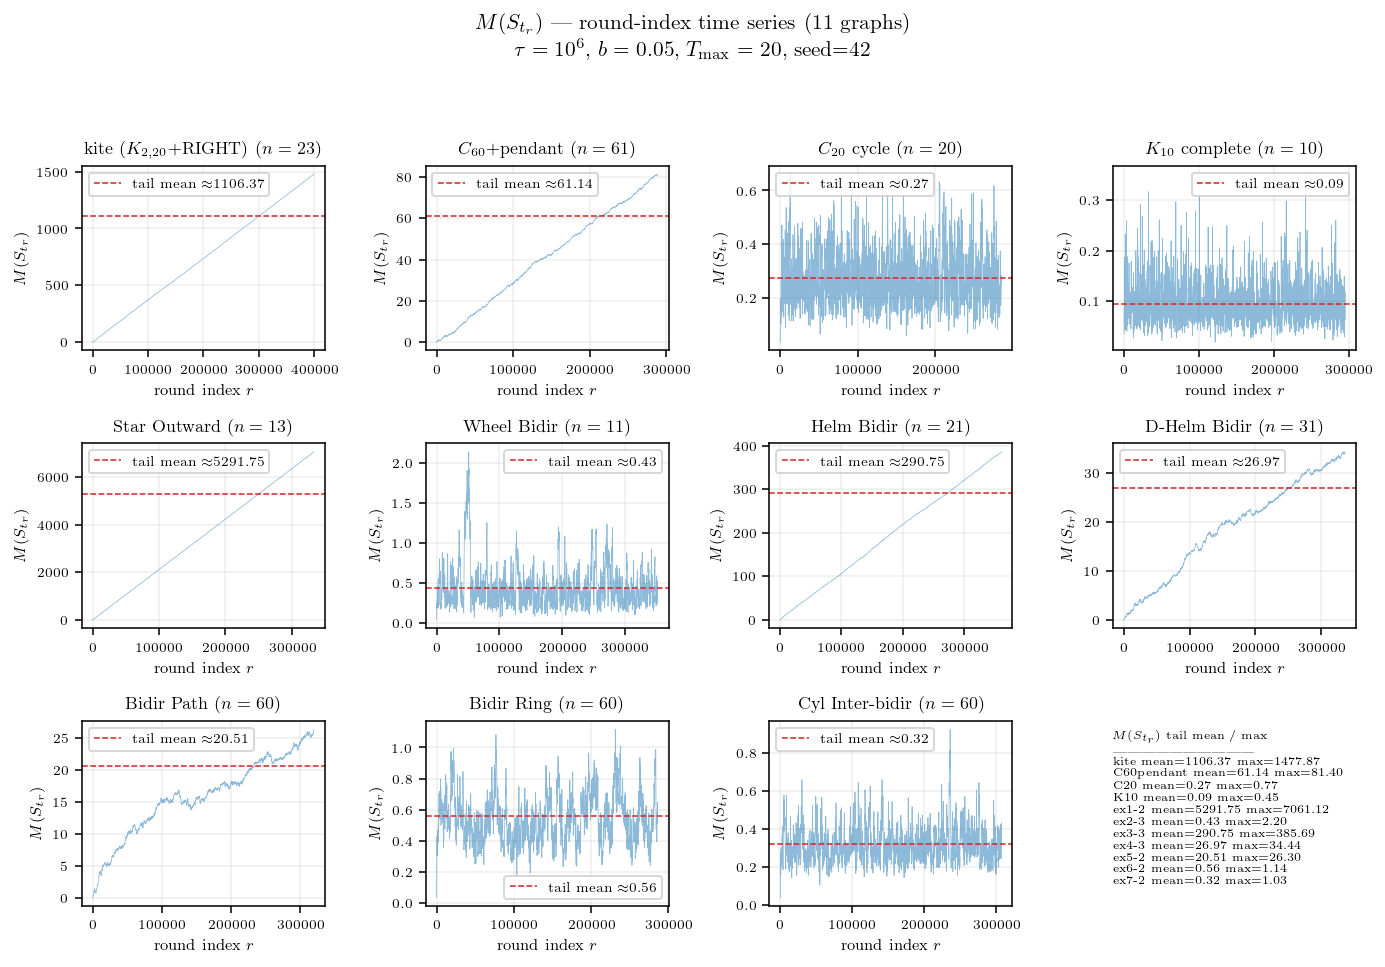
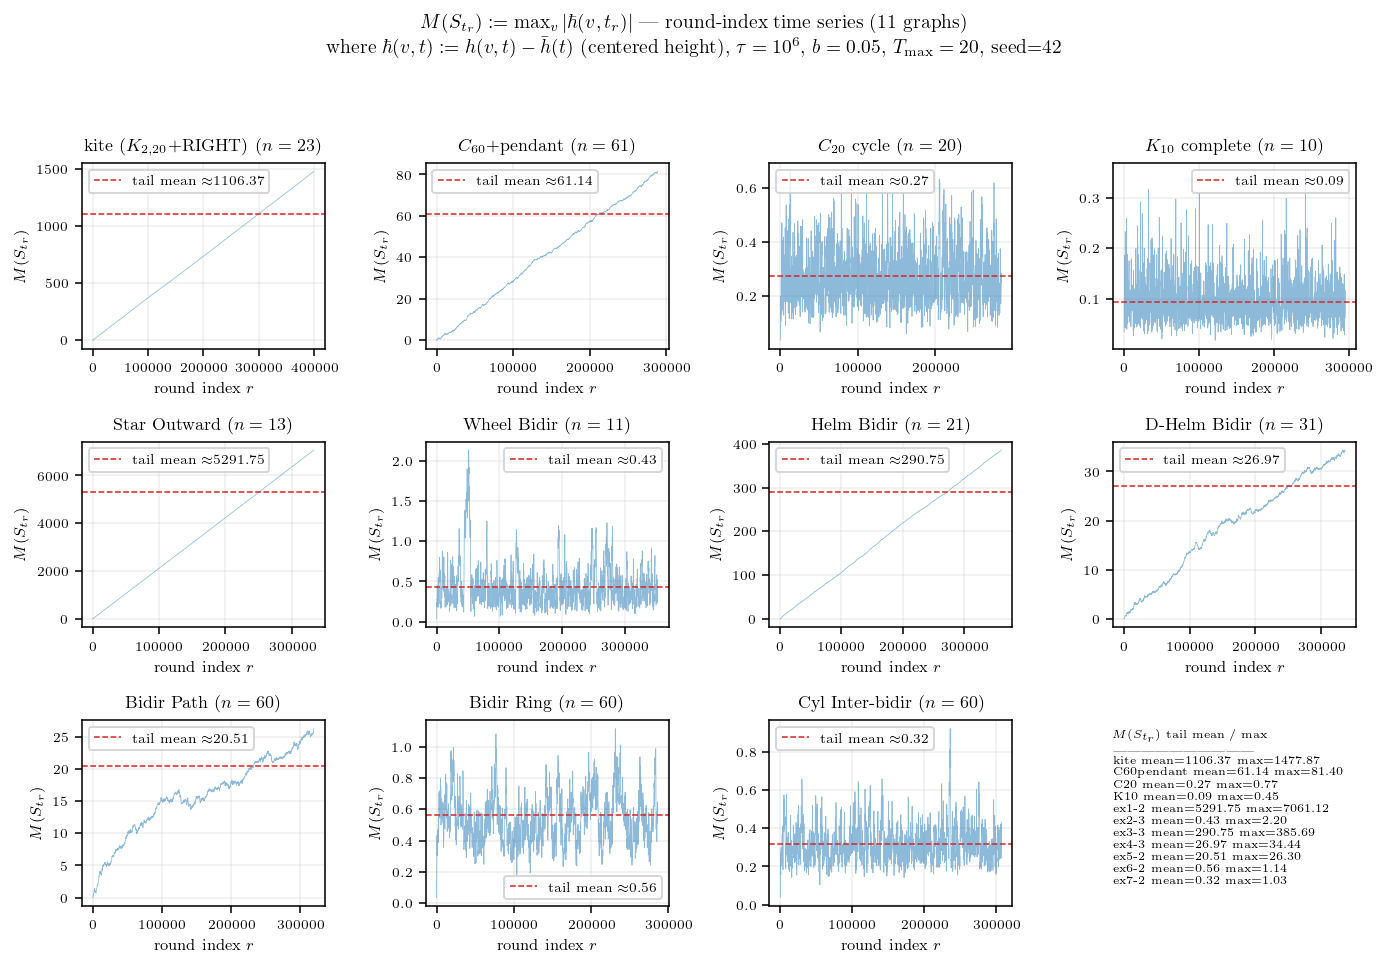
update: Foster 검증 — M 시계열 figure 맨 위 + 정의 박음

diff --git a/docs/Posts/260522_31c9e5.html b/docs/Posts/260522_31c9e5.html
@@ -222,107 +222,16 @@ window.Quarto = {
 
 
 <!-- 소유권자: 소미 | 사용자: 소미 -->
-<p>에이의 ABC 통합증명 PDF §3.4 에 Foster’s drift criterion (Assumption 1) 이 등장한다. 회사 내부 용어로 OB 조건이며, ABC 의 세 regime 통합증명에서 Theorem A (balanced) 의 핵심 hypothesis 다. 이 가정이 그래프와 파라미터에 따라 실제로 잘 성립하는지 실험으로 본다. 본 글은 (B) 실험 결과 공유용으로 판정하고 §2.6/§2.7 (figure–코드 페어) 적용 면제로 진행한다.</p>
-<p>가정의 형태는 다음과 같다. 어떤 graph-level constant <span class="math inline">\(\varepsilon_B &gt; 0\)</span>, <span class="math inline">\(C_B \ge 0\)</span> 가 존재해서 모든 round <span class="math inline">\(r\)</span> 에서</p>
-<p><span class="math display">\[B(S_{t_r}) \;\le\; -\varepsilon_B\, M(S_{t_r}) + C_B\]</span></p>
-<p>가 성립한다. 여기서 <span class="math inline">\(B(S_{t_r}) = \sum_u \pi(u, S_{t_r}) \hbar(u, t_r)\)</span> 은 round 시작 시점의 weighted height deposit (Lemma 3 정의), <span class="math inline">\(M(S_{t_r}) = \max_v |\hbar(v, t_r)|\)</span> 은 centered height range, <span class="math inline">\(\pi(u, S) = \mathbb{E}[\#_u | S_{t_r}]\)</span> 는 round 길이 동안 노드 <span class="math inline">\(u\)</span> 의 visit count 의 조건부 기댓값이다. 직관은 “현재 height 격차 <span class="math inline">\(M\)</span> 이 클수록 다음 round 에서 weighted deposit 이 음 방향으로 작용해 평준화(mean-reversion)된다” — Foster-Lyapunov criterion 의 그래프 측 표현.</p>
-<p>실험에서 11개 그래프 (소미 자체 4개 + 24예제 중 대표 7개) 에 대해 Full HST (<span class="math inline">\(b=0.05\)</span>, <span class="math inline">\(T_{\max}=20\)</span>, <span class="math inline">\(\tau=10^6\)</span>, seed=42) 시뮬을 돌렸다. 각 round 시작 시점 <span class="math inline">\(t_r\)</span> 마다 <span class="math inline">\((M_r, B^{\rm emp}_r)\)</span> 한 sample 을 기록했으며, 여기서 <span class="math inline">\(B^{\rm emp}_r := \sum_u \#_u(r) \hbar(u, t_r)\)</span> 는 한 round 의 실제 visit count 와 round 시작 height 의 weighted sum 으로 Lemma 2 의 양식이다. 다수 round 의 sample 평균이 <span class="math inline">\(B(S)\)</span> 추정. 각 그래프당 약 28~40만 round 수집되어 충분하다.</p>
-<p>가정 만족 여부는 scatter plot <span class="math inline">\((M, B^{\rm emp})\)</span> 에 OLS linear fit <span class="math inline">\(B = -\varepsilon_B M + C_B\)</span> 을 적용해 <span class="math inline">\(\varepsilon_B\)</span> 추정값으로 판정한다 — <span class="math inline">\(\varepsilon_B &gt; 0\)</span> 이면 만족, 음수면 위반.</p>
-<p><img src="attachments/260522_31c9e5_01.png" class="img-fluid"></p>
-<p>11 panel 의 scatter (subsample 5천 점) + 빨강 회귀선 + ε_B 표시. 마지막 panel 은 요약 표.</p>
-<p>결과 정리 (만족 ✓ / borderline ~ / 위반 ✗):</p>
-<table class="caption-top table">
-<thead>
-<tr class="header">
-<th>그래프</th>
-<th><span class="math inline">\(n\)</span></th>
-<th><span class="math inline">\(\varepsilon_B\)</span></th>
-<th>판정</th>
-</tr>
-</thead>
-<tbody>
-<tr class="odd">
-<td><span class="math inline">\(C_{20}\)</span> cycle</td>
-<td>20</td>
-<td><span class="math inline">\(+0.151\)</span></td>
-<td>✓</td>
-</tr>
-<tr class="even">
-<td><span class="math inline">\(K_{10}\)</span> complete</td>
-<td>10</td>
-<td><span class="math inline">\(+0.318\)</span></td>
-<td>✓</td>
-</tr>
-<tr class="odd">
-<td>Bidir Ring (ex6-2)</td>
-<td>60</td>
-<td><span class="math inline">\(+0.040\)</span></td>
-<td>✓</td>
-</tr>
-<tr class="even">
-<td>Cyl Inter-bidir (ex7-2)</td>
-<td>60</td>
-<td><span class="math inline">\(+0.045\)</span></td>
-<td>✓</td>
-</tr>
-<tr class="odd">
-<td>Bidir Path (ex5-2)</td>
-<td>60</td>
-<td><span class="math inline">\(+0.0005\)</span></td>
-<td>~</td>
-</tr>
-<tr class="even">
-<td>Wheel Bidir (ex2-3)</td>
-<td>11</td>
-<td><span class="math inline">\(-0.007\)</span></td>
-<td>~</td>
-</tr>
-<tr class="odd">
-<td><span class="math inline">\(C_{60}\)</span>+pendant</td>
-<td>61</td>
-<td><span class="math inline">\(-0.008\)</span></td>
-<td>~</td>
-</tr>
-<tr class="even">
-<td>D-Helm Bidir (ex4-3)</td>
-<td>31</td>
-<td><span class="math inline">\(-0.087\)</span></td>
-<td>✗</td>
-</tr>
-<tr class="odd">
-<td>kite (<span class="math inline">\(K_{2,20}\)</span>+RIGHT)</td>
-<td>23</td>
-<td><span class="math inline">\(-0.313\)</span></td>
-<td>✗</td>
-</tr>
-<tr class="even">
-<td>Helm Bidir (ex3-3)</td>
-<td>21</td>
-<td><span class="math inline">\(-0.758\)</span></td>
-<td>✗</td>
-</tr>
-<tr class="odd">
-<td>Star Outward (ex1-2)</td>
-<td>13</td>
-<td><span class="math inline">\(-0.917\)</span></td>
-<td>✗</td>
-</tr>
-</tbody>
-</table>
-<p>명확한 패턴이 보인다. fully symmetric 또는 거의 그런 그래프 (Cycle, Complete, Ring, Cylinder bidir) 는 <span class="math inline">\(\varepsilon_B &gt; 0\)</span> 으로 가정 만족, hub-pendant 같은 강한 비대칭이 있는 그래프 (Star Outward, Helm Bidir, kite) 는 <span class="math inline">\(\varepsilon_B\)</span> 가 큰 음수 — 가정이 명백히 위반된다.</p>
-<p>위반의 직관은 다음과 같다. Star Outward (단방향 hub→leaf) 에서 hub 의 height 가 평균보다 높으면 (<span class="math inline">\(\hbar(\text{hub}) &gt; 0\)</span>), flow rule 에 의해 walker 가 hub 에서 leaf 로 빠져나간다. 그런데 walker 는 hub 에서 시작 (round 시작 fall) 후 leaf 로 한 step, 거기서 또 다음 step 인데 leaf 는 outgoing edge 가 없어 block 강제 — 결국 hub 에 한 번 visit + leaf 한 번 visit 의 짧은 round. visit count 와 <span class="math inline">\(\hbar\)</span> 의 분포가 mean-reversion 의 반대 방향으로 작동해 <span class="math inline">\(B^{\rm emp}\)</span> 가 양으로 분포한다.</p>
-<p>반대로 fully symmetric cycle/complete 에서는 round 안 walker 가 한쪽 방향 trap 없이 균등 분배되어 <span class="math inline">\(\#_u \cdot \hbar(u)\)</span> 가 거의 0 평균, 그 위에 mean-reversion 의 작은 음 drift 가 보태져 <span class="math inline">\(\varepsilon_B\)</span> 약간 양수.</p>
-<p>OLS 단순 회귀에는 한 가지 한계가 있다. Helm Bidir 같은 그래프의 <span class="math inline">\((M, B^{\rm emp})\)</span> scatter 를 자세히 보면 점들이 cloud 가 아니라 <strong>여러 직선이 부채꼴로 펼쳐진 구조</strong>다 — 이는 round 안 walker 의 path 가 그래프 구조에 의해 finite 개의 type 으로 분류되고, 각 type 별로 visit count vector <span class="math inline">\((\#_u)_u\)</span> 가 fixed pattern 이라 type 안에서는 <span class="math inline">\(B^{\rm emp}_r\)</span> 이 <span class="math inline">\(M_r\)</span> 에 거의 선형이기 때문이다. 단일 직선으로 강제한 OLS slope 는 type 별 평균 trend 의 weighted 평균에 가까운데, 가정의 진짜 의미를 더 직접 점검하려면 <span class="math inline">\(M(S_{t_r})\)</span> 자체의 round-index 시계열을 보면 된다.</p>
-<p>Foster’s drift criterion 의 본질은 결국 height range <span class="math inline">\(M(t)\)</span> 가 시간 흐름에서 bounded 인가의 문제다. <span class="math inline">\(\varepsilon_B &gt; 0\)</span> 가정은 “큰 <span class="math inline">\(M\)</span> 에서 음의 drift 가 작용해 <span class="math inline">\(M\)</span> 이 다시 작아진다” 는 의미이고, 만약 그것이 작동하면 <span class="math inline">\(M\)</span> 시계열은 mean-reverting 의 bounded process 가 된다. 반대로 가정이 깨지면 <span class="math inline">\(M\)</span> 이 무한히 커진다.</p>
+<!-- Modified: 2026-05-22 by 소미 -->
+<p>에이의 ABC 통합증명 PDF §3.4 의 Foster’s drift criterion (Assumption 1) 이 그래프와 파라미터에 따라 실제로 잘 성립하는지 실험으로 본다. 본 글은 (B) 실험 결과 공유용으로 판정하고 §2.6/§2.7 적용 면제로 진행한다.</p>
 <p><img src="attachments/260522_31c9e5_02.png" class="img-fluid"></p>
-<p>11개 그래프의 <span class="math inline">\(M(S_{t_r})\)</span> round-index 시계열. 자릿수 차이가 직관적이다.</p>
+<p>11개 그래프 — 소미 자체 4개 (kite, <span class="math inline">\(C_{60}\)</span>+pendant, <span class="math inline">\(C_{20}\)</span>, <span class="math inline">\(K_{10}\)</span>) + 24예제 중 대표 7개 (Star Outward, Wheel Bidir, Helm Bidir, D-Helm Bidir, Bidir Path, Bidir Ring, Cyl Inter-bidir) — 의 <span class="math inline">\(M(S_{t_r}) := \max_v |\hbar(v, t_r)|\)</span> 의 round-index 시계열이다. 여기서 <span class="math inline">\(\hbar(v, t) := h(v, t) - \bar h(t)\)</span> 는 centered height, <span class="math inline">\(t_r\)</span> 는 round <span class="math inline">\(r\)</span> 의 block-flag time. Full HST (<span class="math inline">\(b=0.05\)</span>, <span class="math inline">\(T_{\max}=20\)</span>, <span class="math inline">\(\tau=10^6\)</span>, seed=42) 시뮬에서 각 round 시작 시점마다 <span class="math inline">\(M_r\)</span> 한 sample 을 기록.</p>
 <table class="caption-top table">
 <thead>
 <tr class="header">
 <th>그래프</th>
 <th><span class="math inline">\(M\)</span> tail mean</th>
 <th><span class="math inline">\(M\)</span> max</th>
-<th>OLS <span class="math inline">\(\varepsilon_B\)</span></th>
 </tr>
 </thead>
 <tbody>
@@ -330,73 +239,135 @@ window.Quarto = {
 <td><span class="math inline">\(K_{10}\)</span> complete</td>
 <td><span class="math inline">\(0.10\)</span></td>
 <td><span class="math inline">\(0.45\)</span></td>
-<td><span class="math inline">\(+0.318\)</span></td>
 </tr>
 <tr class="even">
 <td><span class="math inline">\(C_{20}\)</span> cycle</td>
 <td><span class="math inline">\(0.27\)</span></td>
 <td><span class="math inline">\(0.77\)</span></td>
-<td><span class="math inline">\(+0.151\)</span></td>
 </tr>
 <tr class="odd">
 <td>Cyl Inter-bidir</td>
 <td><span class="math inline">\(0.32\)</span></td>
 <td><span class="math inline">\(1.03\)</span></td>
-<td><span class="math inline">\(+0.045\)</span></td>
 </tr>
 <tr class="even">
 <td>Wheel Bidir</td>
 <td><span class="math inline">\(0.43\)</span></td>
 <td><span class="math inline">\(2.20\)</span></td>
-<td><span class="math inline">\(-0.007\)</span></td>
 </tr>
 <tr class="odd">
 <td>Bidir Ring</td>
 <td><span class="math inline">\(0.56\)</span></td>
 <td><span class="math inline">\(1.15\)</span></td>
-<td><span class="math inline">\(+0.040\)</span></td>
 </tr>
 <tr class="even">
 <td>Bidir Path</td>
 <td><span class="math inline">\(20.5\)</span></td>
 <td><span class="math inline">\(26.3\)</span></td>
-<td><span class="math inline">\(+0.0005\)</span></td>
 </tr>
 <tr class="odd">
 <td>D-Helm Bidir</td>
 <td><span class="math inline">\(27.0\)</span></td>
 <td><span class="math inline">\(34.4\)</span></td>
-<td><span class="math inline">\(-0.087\)</span></td>
 </tr>
 <tr class="even">
 <td><span class="math inline">\(C_{60}\)</span>+pendant</td>
 <td><span class="math inline">\(61.1\)</span></td>
 <td><span class="math inline">\(81.4\)</span></td>
-<td><span class="math inline">\(-0.008\)</span></td>
 </tr>
 <tr class="odd">
 <td>Helm Bidir</td>
 <td><span class="math inline">\(291\)</span></td>
 <td><span class="math inline">\(386\)</span></td>
-<td><span class="math inline">\(-0.758\)</span></td>
 </tr>
 <tr class="even">
 <td>kite</td>
 <td><span class="math inline">\(1106\)</span></td>
 <td><span class="math inline">\(1478\)</span></td>
-<td><span class="math inline">\(-0.313\)</span></td>
 </tr>
 <tr class="odd">
 <td>Star Outward</td>
 <td><span class="math inline">\(5292\)</span></td>
 <td><span class="math inline">\(7061\)</span></td>
-<td><span class="math inline">\(-0.917\)</span></td>
 </tr>
 </tbody>
 </table>
-<p><span class="math inline">\(M\)</span> tail mean 의 크기와 OLS <span class="math inline">\(\varepsilon_B\)</span> 만족 여부가 거의 monotone 대응한다. <span class="math inline">\(M &lt; 1\)</span> 의 대칭 그래프 (Cycle, Complete, Ring, Cylinder) 는 시계열이 안정된 bounded process — Foster 만족. <span class="math inline">\(M\)</span> 이 자릿수 단위로 커지는 비대칭 그래프 (Helm, kite, Star Outward) 는 시계열이 발산 또는 매우 큰 fluctuation — Foster 명백 위반.</p>
-<p>본 결과는 Assumption 1 이 ABC 의 핵심 hypothesis 임에도 <strong>모든 그래프에서 자동 성립하는 보편 명제가 아님</strong>을 보여준다. Theorem A (balanced) 의 적용 범위는 사실상 fully symmetric 또는 거의 대칭인 그래프 클래스로 제한될 가능성이 있고, 비대칭 그래프 (Star Outward, Helm 류) 에서는 Foster-Lyapunov 가 직접 적용되지 않을 수 있다. <span class="math inline">\(M\)</span> 시계열의 long-run behavior 가 가정의 진짜 의미를 직접 보여주는 자연스러운 진단이다.</p>
-<p>시뮬 코드와 figure 생성 코드는 본문에 포함하지 않았고 ((B) 양식, §2.6 면제), 본인 책상에 보관: <code>260522_소미_foster_verify.py</code> (시뮬, s181 실행, 11개 그래프 sequential 약 60초), <code>260522_소미_foster_figs.py</code> (figure). raw 캐시: <code>results/numeric/260522_소미_foster_verify.py/Guebins-Mac-mini.local_foster_verify.npz</code>.</p>
+<p>그래프 클래스에 따라 <span class="math inline">\(M(S_{t_r})\)</span> 시계열이 두 종류로 명확히 나뉜다. fully symmetric (Cycle, Complete, Ring, Cylinder bidir) 은 시계열이 작은 상수 (∼ 1) 부근에서 흔들리는 bounded process — height range 가 시간이 흘러도 일정 scale 위로 안 커진다. 반대로 비대칭 그래프 (kite, Helm Bidir, Star Outward, <span class="math inline">\(C_{60}\)</span>+pendant 등) 는 시계열이 round 가 진행할수록 거의 선형으로 발산 — height range 가 무한히 커진다. tail mean 의 자릿수가 그 두 클래스 사이에 4 자릿수 차이를 만든다.</p>
+<p>Foster’s drift criterion (Assumption 1) 은 어떤 graph-level constant <span class="math inline">\(\varepsilon_B &gt; 0\)</span>, <span class="math inline">\(C_B \ge 0\)</span> 가 존재해서 모든 round 에서</p>
+<p><span class="math display">\[B(S_{t_r}) \;\le\; -\varepsilon_B\, M(S_{t_r}) + C_B\]</span></p>
+<p>가 성립하길 요구하는데, 여기서 <span class="math inline">\(B(S_{t_r}) = \sum_u \pi(u, S_{t_r}) \hbar(u, t_r)\)</span> 는 round 시작 시점의 weighted height deposit (Lemma 3 정의), <span class="math inline">\(\pi(u, S) = \mathbb{E}[\#_u | S_{t_r}]\)</span> 는 round 길이 동안 노드 <span class="math inline">\(u\)</span> 의 visit count 의 조건부 기댓값이다. 이 가정의 핵심 함의는 결국 height range <span class="math inline">\(M(t)\)</span> 가 시간 흐름에서 bounded 라는 것이다 — <span class="math inline">\(\varepsilon_B &gt; 0\)</span> 가 작동하면 큰 <span class="math inline">\(M\)</span> 에서 음의 drift 가 작용해 <span class="math inline">\(M\)</span> 이 다시 작아져 stationary 분포 위에 머문다 (positive Harris recurrence). 가정이 깨지면 <span class="math inline">\(M\)</span> 이 발산. 그러니 <span class="math inline">\(M\)</span> 시계열의 long-run behavior 가 가정의 진짜 의미를 직접 보여준다 — 위 figure 가 그 자체로 Assumption 1 의 graph-별 검증이다.</p>
+<p>추가로 가정의 정량 형태도 raw scatter 로 확인할 수 있다. 각 round 의 <span class="math inline">\((M_r, B^{\rm emp}_r)\)</span> 한 sample 을 모아 <span class="math inline">\(B^{\rm emp}_r = \sum_u \#_u(r) \hbar(u, t_r)\)</span> — Lemma 2 의 좌변 양식 — 으로 <span class="math inline">\(B(S)\)</span> 의 instantaneous 추정으로 사용. 다수 round 의 sample 평균이 <span class="math inline">\(B(S)\)</span> 의 추정. 이 scatter 에 OLS <span class="math inline">\(B = -\varepsilon_B M + C_B\)</span> 회귀를 fit 한 결과:</p>
+<p><img src="attachments/260522_31c9e5_01.png" class="img-fluid"></p>
+<table class="caption-top table">
+<thead>
+<tr class="header">
+<th>그래프</th>
+<th>OLS <span class="math inline">\(\varepsilon_B\)</span></th>
+<th>판정</th>
+</tr>
+</thead>
+<tbody>
+<tr class="odd">
+<td><span class="math inline">\(C_{20}\)</span> cycle</td>
+<td><span class="math inline">\(+0.151\)</span></td>
+<td>✓</td>
+</tr>
+<tr class="even">
+<td><span class="math inline">\(K_{10}\)</span> complete</td>
+<td><span class="math inline">\(+0.318\)</span></td>
+<td>✓</td>
+</tr>
+<tr class="odd">
+<td>Bidir Ring</td>
+<td><span class="math inline">\(+0.040\)</span></td>
+<td>✓</td>
+</tr>
+<tr class="even">
+<td>Cyl Inter-bidir</td>
+<td><span class="math inline">\(+0.045\)</span></td>
+<td>✓</td>
+</tr>
+<tr class="odd">
+<td>Bidir Path</td>
+<td><span class="math inline">\(+0.0005\)</span></td>
+<td>~</td>
+</tr>
+<tr class="even">
+<td>Wheel Bidir</td>
+<td><span class="math inline">\(-0.007\)</span></td>
+<td>~</td>
+</tr>
+<tr class="odd">
+<td><span class="math inline">\(C_{60}\)</span>+pendant</td>
+<td><span class="math inline">\(-0.008\)</span></td>
+<td>~</td>
+</tr>
+<tr class="even">
+<td>D-Helm Bidir</td>
+<td><span class="math inline">\(-0.087\)</span></td>
+<td>✗</td>
+</tr>
+<tr class="odd">
+<td>kite</td>
+<td><span class="math inline">\(-0.313\)</span></td>
+<td>✗</td>
+</tr>
+<tr class="even">
+<td>Helm Bidir</td>
+<td><span class="math inline">\(-0.758\)</span></td>
+<td>✗</td>
+</tr>
+<tr class="odd">
+<td>Star Outward</td>
+<td><span class="math inline">\(-0.917\)</span></td>
+<td>✗</td>
+</tr>
+</tbody>
+</table>
+<p>OLS <span class="math inline">\(\varepsilon_B\)</span> 부호 (만족 ✓ / borderline ~ / 위반 ✗) 와 <span class="math inline">\(M\)</span> tail mean 의 자릿수가 거의 monotone 대응한다 — <span class="math inline">\(M\)</span> 시계열 진단과 OLS 회귀가 같은 결론을 가리킨다.</p>
+<p>OLS 단순 회귀에는 한 가지 한계가 있다. Helm Bidir 같은 그래프의 scatter 를 자세히 보면 점들이 cloud 가 아니라 여러 직선이 부채꼴로 펼쳐진 구조다 — round 안 walker 의 path 가 그래프 구조에 의해 finite 개의 type 으로 분류되고, 각 type 별로 visit count vector <span class="math inline">\((\#_u)_u\)</span> 가 fixed pattern 이라 type 안에서는 <span class="math inline">\(B^{\rm emp}_r\)</span> 이 <span class="math inline">\(M_r\)</span> 에 거의 선형이기 때문. 단일 직선으로 강제한 OLS slope 는 type 별 평균 trend 의 weighted 평균에 가까운데, 가정의 본질 (<span class="math inline">\(M\)</span> 의 boundedness) 은 위쪽 figure 가 더 직접적으로 보여준다.</p>
+<p>결론적으로 Assumption 1 은 ABC 의 핵심 hypothesis 임에도 모든 그래프에서 자동 성립하는 보편 명제가 아니다. Theorem A (balanced) 의 적용 범위는 사실상 fully symmetric 또는 거의 대칭인 그래프 클래스로 제한될 가능성이 있고, 비대칭 그래프 (Star Outward, Helm 류, kite) 에서는 Foster-Lyapunov 가 직접 적용되지 않을 수 있다.</p>
+<p>시뮬 코드와 figure 생성 코드는 본문에 포함하지 않았고 ((B) 양식, §2.6 면제), 본인 책상에 보관: <code>260522_소미_foster_verify.py</code> (s181 sequential 약 60초), <code>260522_소미_foster_figs.py</code> (B-M scatter), <code>260522_소미_foster_M_series.py</code> (<span class="math inline">\(M\)</span> 시계열). raw 캐시: <code>results/numeric/260522_소미_foster_verify.py/Guebins-Mac-mini.local_foster_verify.npz</code>.</p>
 
 
 
